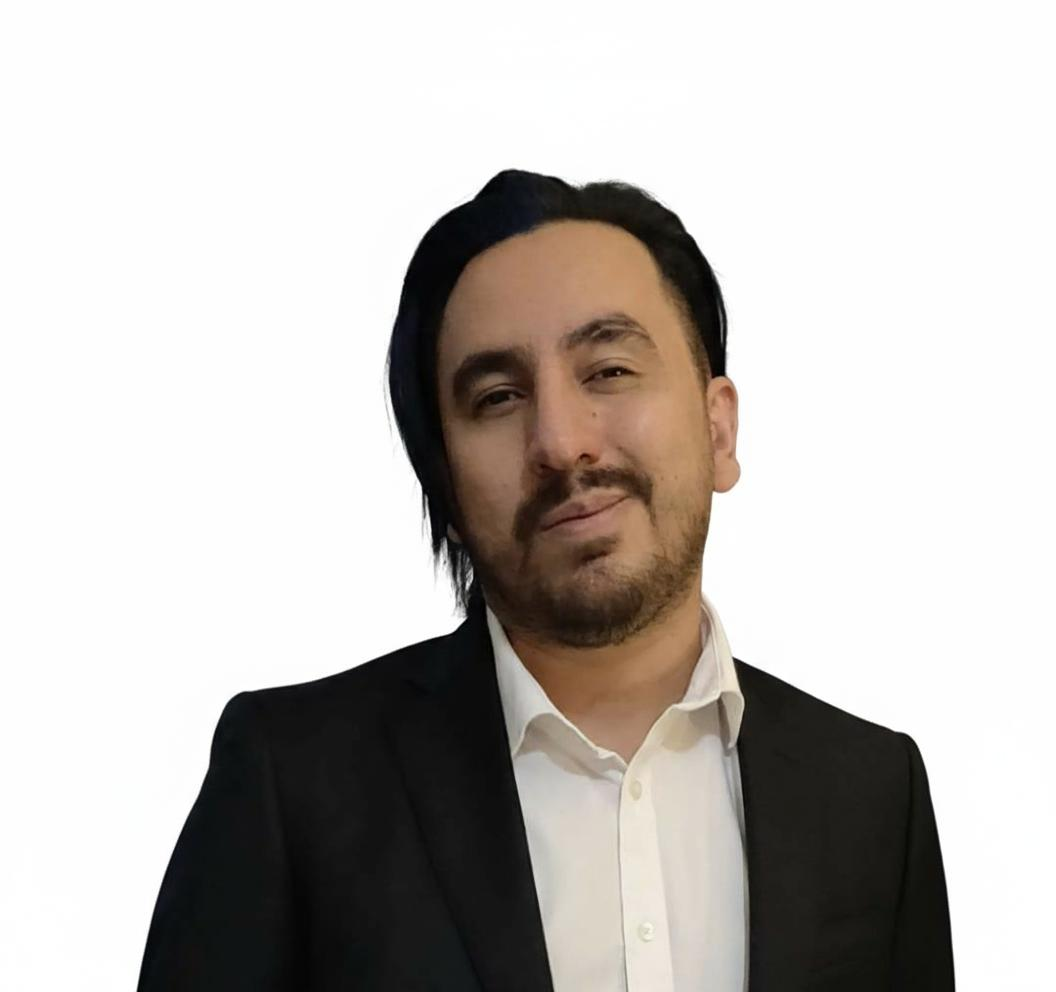
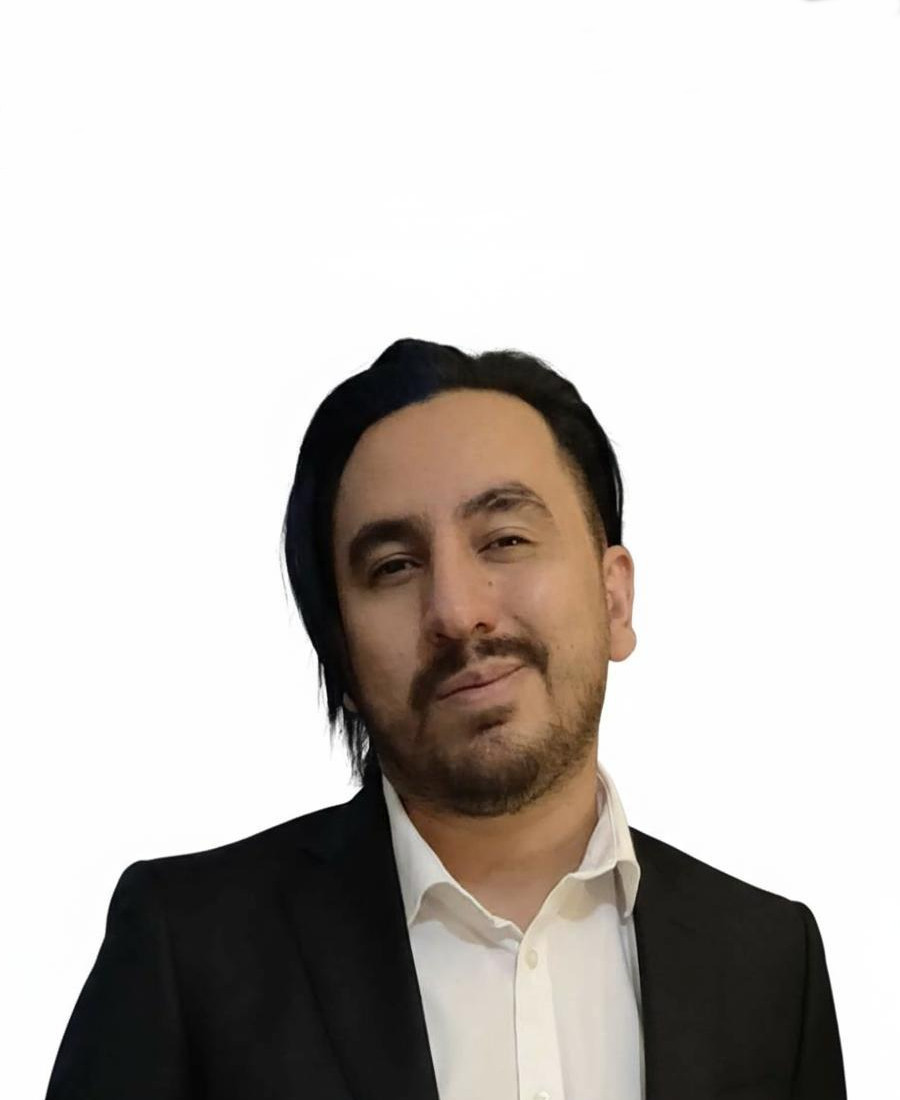
Update team images

Changed region(s): [[0.0311, 0.1562, 0.9644, 1.0]]

diff --git a/src/views/informative/main/Team.js b/src/views/informative/main/Team.js
@@ -16,8 +16,8 @@ import vicepresidentPhoto from "assets/images/team/vicepresident.jpg";
 import treasurerPhoto from "assets/images/team/treasurer.jpg";
 import member1Photo from "assets/images/team/member1.jpg";
 import member2Photo from "assets/images/team/member2.jpg";
-import member3Photo from "assets/images/team/member2.jpg";
-import substitutionPhoto from "assets/images/team/member2.jpg";
+import member3Photo from "assets/images/team/member3.jpg";
+import substitutionPhoto from "assets/images/team/substitution.jpg";
 
 
 import Translator from 'utils/Translator';
@@ -82,7 +82,7 @@ function Team() {
               <TicoCatTeamMemberCard
                 image={vicepresidentPhoto}
                 name="Jairo Javier Sánchez Mejías"
-                position={{ color: "dark", label: "team_secretary_position" }}
+                position={{ color: "dark", label: "team_vicepresident_position" }}
                 from="Alajuela"
                 nowLiving="La Pau, Sant Martí"
                 arrivalTime={Translator.instance.translate("team_vicepresident_arrival")}
@@ -134,21 +134,6 @@ function Team() {
                 occupation={Translator.instance.translate("team_vocal_one_occupation")}
                 contributions={Translator.instance.translate("team_vocal_one_contributions")}
                 reasonOfParticipation={Translator.instance.translate("team_vocal_one_reasons")}
-              />
-            </MKBox>
-          </Grid>
-          <Grid item xs={12} lg={12}>
-            <MKBox mb={1}>
-              <TicoCatTeamMemberCard
-                image={member2Photo}
-                name="Erik Sandoval"
-                position={{ color: "dark", label: "team_vocal_position" }}
-                from="Paraíso, Cartago"
-                nowLiving="Badalona"
-                arrivalTime={Translator.instance.translate("team_vocal_two_arrival")}
-                occupation={Translator.instance.translate("team_vocal_two_occupation")}
-                contributions={Translator.instance.translate("team_vocal_two_contributions")}
-                reasonOfParticipation={Translator.instance.translate("team_vocal_two_reasons")}
               />
             </MKBox>
           </Grid>